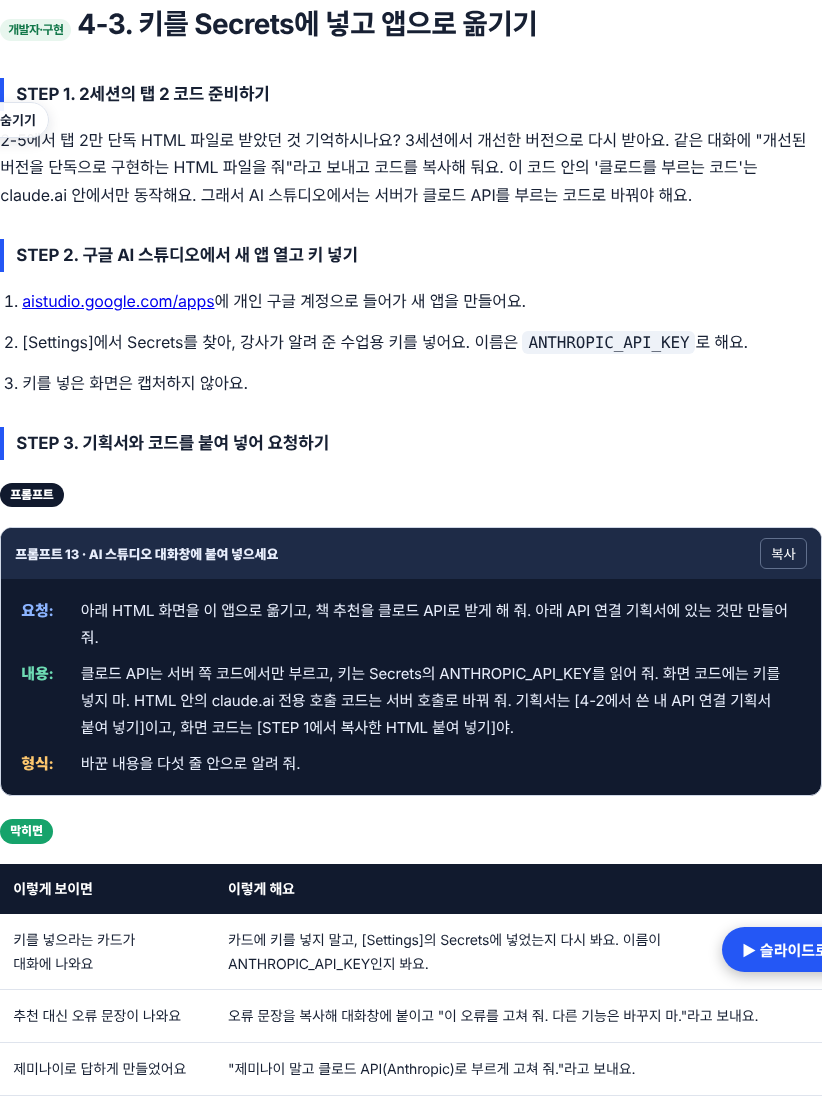
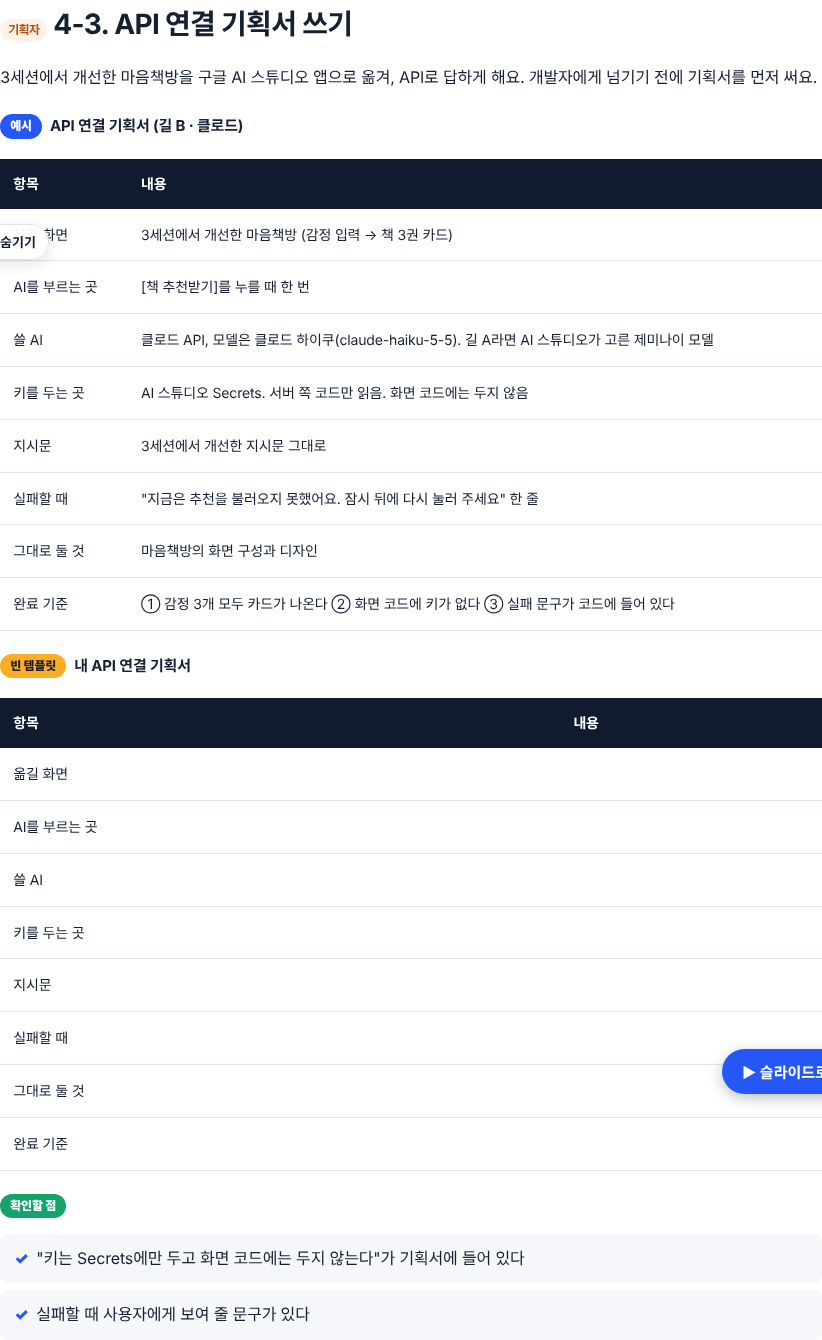
3주차 DAY 3 세션 4: API 키 만들기(길 A 제미나이 자동 연결/길 B 클로드 콘솔)·사용량·지출·한도 메뉴·강사 호출을 먼저 넣음
Claude-Session: https://claude.ai/code/session_01C4uqyEJDMMad4kDgLNX9Dk

diff --git a/261109-ai-pm-week3/d3-ai-studio-books.html b/261109-ai-pm-week3/d3-ai-studio-books.html
@@ -298,7 +298,7 @@ aside nav a.active{border-left-color:var(--blue)}
 <div class="grp"><div class="grp-label">SESSION 1</div><a class="l2" href="#s1">LLM이 무엇이고 어디서 틀리나</a><a class="l3" href="#s1-1">1-1. LLM이란?</a><a class="l3" href="#s1-2">1-2. 책 추천과 링크를 받아 직접 눌러 보기</a><a class="l3" href="#s1-3">1-3. 결과</a></div>
 <div class="grp"><div class="grp-label">SESSION 2</div><a class="l2" href="#s2">클로드 아티팩트로 감정 책 추천 만들기</a><a class="l3" href="#s2-1">2-1. 웹 페이지에 AI를 붙이는 세 가지 길</a><a class="l3" href="#s2-2">2-2. 텍스트 프로토타입과 입력·처리·출력</a><a class="l3" href="#s2-3">2-3. 입력과 출력을 바꿔 다른 화면 만들기</a><a class="l3" href="#s2-4">2-4. 규칙 탭과 AI 탭 견주기</a><a class="l3" href="#s2-5">2-5. 코드에서 AI 탭의 차이 찾기</a><a class="l3" href="#s2-6">2-6. 개발자에게 줄 요구사항 쓰기</a><a class="l3" href="#s2-7">2-7. 결과</a></div>
 <div class="grp"><div class="grp-label">SESSION 3</div><a class="l2" href="#s3">요구사항으로 고치고 테스트하기</a><a class="l3" href="#s3-1">3-1. [기획자] 문제와 해결 방안 표</a><a class="l3" href="#s3-2">3-2. [구현] 개선 요청대로 고치기</a><a class="l3" href="#s3-3">3-3. [구현] AI에게 테스트 시키기</a><a class="l3" href="#s3-4">3-4. [확인] 검증표와 유저플로우</a><a class="l3" href="#s3-5">3-5. [구현] 개선된 버전 만들기</a><a class="l3" href="#s3-6">3-6. [확인] 무엇이 개선됐는지 묻기</a><a class="l3" href="#s3-7">3-7. [기획자] AS-IS·TO-BE 도식</a><a class="l3" href="#s3-8">3-8. 결과</a></div>
-<div class="grp"><div class="grp-label">SESSION 4</div><a class="l2" href="#s4">클로드 API 키로 AI 스튜디오 앱에 붙이기</a><a class="l3" href="#s4-1">4-1. 아티팩트 내장 AI vs 내 API 키</a><a class="l3" href="#s4-2">4-2. [기획자] API 연결 기획서</a><a class="l3" href="#s4-3">4-3. [구현] 키를 Secrets에 넣고 옮기기</a><a class="l3" href="#s4-4">4-4. [확인] 기획서와 결과 견주기</a><a class="l3" href="#s4-5">4-5. 결과</a></div>
+<div class="grp"><div class="grp-label">SESSION 4</div><a class="l2" href="#s4">API 키를 만들어 AI 스튜디오 앱에 붙이기</a><a class="l3" href="#s4-1">4-1. 아티팩트 내장 AI vs API 키</a><a class="l3" href="#s4-2">4-2. API 키 만들기·사용량·한도</a><a class="l3" href="#s4-3">4-3. [기획자] API 연결 기획서</a><a class="l3" href="#s4-4">4-4. [구현] 내 앱에 키 넣고 옮기기</a><a class="l3" href="#s4-5">4-5. [확인] 기획서와 결과 견주기</a><a class="l3" href="#s4-6">4-6. 결과</a></div>
 <div class="grp"><div class="grp-label">SESSION 5</div><a class="l2" href="#s5">추천 프롬프트 설계하기</a><a class="l3" href="#s5-1">5-1. 프롬프트를 잘 쓰는 세 가지 방법</a><a class="l3" href="#s5-2">5-2. [기획자] 추천 프롬프트 기획서</a><a class="l3" href="#s5-3">5-3. [구현] 기획서대로 지시문 바꾸기</a><a class="l3" href="#s5-4">5-4. [확인] 기획서와 결과 견주기</a><a class="l3" href="#s5-5">5-5. 결과</a></div>
 <div class="grp"><div class="grp-label">선택</div><a class="l2" href="#s6">근거를 주고 추천하기 (RAG 맛보기)</a><a class="l3" href="#s6-1">6-1. RAG란?</a><a class="l3" href="#s6-2">6-2. [기획자] 근거 추천 기획서</a><a class="l3" href="#s6-3">6-3. [구현] 기획서대로 목록 붙이기</a><a class="l3" href="#s6-4">6-4. [확인] 기획서와 결과 견주기</a><a class="l3" href="#s6-5">6-5. 결과</a></div>
 <div class="grp"><div class="grp-label">마무리</div><a class="l2" href="#wrap">오늘 정리와 과제</a></div>
@@ -310,11 +310,11 @@ aside nav a.active{border-left-color:var(--blue)}
 <header class="hero">
 <div class="kicker">AI 프로덕트 매니저 · 3주차 DAY 3 · 2026.11.11 (수)</div>
 <h1><em>오늘의 감정</em>을 넣으면 맞는 책 3권을 골라 주는 서비스를 클로드로 만들어요</h1>
-<p>감정 키워드를 넣으면 책 3권을 추천하는 프로토타입을 클로드 아티팩트로 만들어요. 먼저 LLM이 어디서 틀리는지 보고, 규칙으로 고르는 버전과 AI가 고르는 버전을 견줘요. 오후에는 기획자가 요구사항과 기획서를 쓰고, 개발자 입장에서 그대로 구현하고, 다시 기획자가 확인하는 흐름을 되풀이해요. 그 흐름으로 클로드 API 키를 구글 AI 스튜디오 앱에 붙이고, 추천 프롬프트도 설계해요.</p>
+<p>감정 키워드를 넣으면 책 3권을 추천하는 프로토타입을 클로드 아티팩트로 만들어요. 먼저 LLM이 어디서 틀리는지 보고, 규칙으로 고르는 버전과 AI가 고르는 버전을 견줘요. 오후에는 기획자가 요구사항과 기획서를 쓰고, 개발자 입장에서 그대로 구현하고, 다시 기획자가 확인하는 흐름을 되풀이해요. 그 흐름으로 API 키를 직접 만들어 구글 AI 스튜디오 앱에 붙이고, 추천 프롬프트도 설계해요.</p>
 <div class="hero-grid">
 <div><b>일정</b><span>11월 11일(수) 09:00–18:00 · 실시간 비대면</span></div>
 <div><b>준비물</b><span>크롬, 클로드 유료 계정, 개인 구글 계정</span></div>
-<div><b>오늘의 결과물</b><span>감정 책 추천 아티팩트 + 개선 요청 표·검증표·AS-IS/TO-BE 도식 + 클로드 API로 답하는 AI 스튜디오 앱 + 프롬프트 비교표</span></div>
+<div><b>오늘의 결과물</b><span>감정 책 추천 아티팩트 + 개선 요청 표·검증표·AS-IS/TO-BE 도식 + API로 답하는 AI 스튜디오 앱 + 프롬프트 비교표</span></div>
 </div>
 <nav aria-label="3주차 교안" class="day-nav"><a href="./">3주차 홈</a><a href="./d1-sheet-appsscript.html">DAY 1 사용자의 데이터·GA</a><a href="./d2-web-crawling.html">DAY 2 웹 크롤링</a><a aria-current="page" href="./d3-ai-studio-books.html">DAY 3 감정 책 추천</a><a href="./d4-claude-code-chatbot.html">DAY 4 클로드 코드 챗봇 화면</a><a href="./d5-chatbot-api.html">DAY 5 챗봇에 AI API</a></nav>
 </header>
@@ -323,8 +323,8 @@ aside nav a.active{border-left-color:var(--blue)}
 <div class="table-wrap"><table>
 <tr><th>시간</th><td>09:00–18:00 (점심 12:00–13:00, 수업 8시간)</td></tr>
 <tr><th>교과</th><td>[기본] AI 서비스 개발 · 9일차 (총 18일)</td></tr>
-<tr><th>교육 목표</th><td>LLM의 개념과 한계를 알고, 사용자의 입력에 AI가 답하는 서비스를 기획자 → 구현 → 기획자 확인의 흐름으로 만들고, 클로드 API로 내 앱에 붙인다.</td></tr>
-<tr><th>수업이 끝나면</th><td>① LLM이 무엇이고 어떤 답을 지어낼 수 있는지 말하기<br/>② 클로드 아티팩트로 규칙 탭과 AI 탭을 만들고 코드에서 지시문 찾기<br/>③ 요구사항을 입력·처리·출력으로 써서 고치고, 테스트하고, AS-IS·TO-BE로 정리하기<br/>④ 클로드 API 키를 구글 AI 스튜디오 앱의 서버에 붙이기<br/>⑤ 추천 프롬프트 기획서를 쓰고 지시문 세 버전을 견주기</td></tr>
+<tr><th>교육 목표</th><td>LLM의 개념과 한계를 알고, 사용자의 입력에 AI가 답하는 서비스를 기획자 → 구현 → 기획자 확인의 흐름으로 만들고, API 키로 내 앱에 붙인다.</td></tr>
+<tr><th>수업이 끝나면</th><td>① LLM이 무엇이고 어떤 답을 지어낼 수 있는지 말하기<br/>② 클로드 아티팩트로 규칙 탭과 AI 탭을 만들고 코드에서 지시문 찾기<br/>③ 요구사항을 입력·처리·출력으로 써서 고치고, 테스트하고, AS-IS·TO-BE로 정리하기<br/>④ API 키를 만들고 사용량·지출·한도를 확인한 뒤, 구글 AI 스튜디오 앱의 서버에 붙이기<br/>⑤ 추천 프롬프트 기획서를 쓰고 지시문 세 버전을 견주기</td></tr>
 </table></div>
 </section>
 
@@ -345,7 +345,7 @@ aside nav a.active{border-left-color:var(--blue)}
 <tr><td>10:30–12:00</td><td>SESSION 2</td><td><a href="#s2">클로드 아티팩트로 감정 책 추천 만들기</a></td></tr>
 <tr><td>12:00–13:00</td><td>점심</td><td></td></tr>
 <tr><td>13:00–15:20</td><td>SESSION 3</td><td><a href="#s3">요구사항으로 고치고 테스트하기</a></td></tr>
-<tr><td>15:30–16:30</td><td>SESSION 4</td><td><a href="#s4">클로드 API 키로 AI 스튜디오 앱에 붙이기</a></td></tr>
+<tr><td>15:30–16:30</td><td>SESSION 4</td><td><a href="#s4">API 키를 만들어 AI 스튜디오 앱에 붙이기</a></td></tr>
 <tr><td>16:30–17:30</td><td>SESSION 5</td><td><a href="#s5">추천 프롬프트 설계하기</a></td></tr>
 <tr><td>시간이 남으면</td><td>선택</td><td><a href="#s6">근거를 주고 추천하기 (RAG 맛보기)</a></td></tr>
 <tr><td>17:30–18:00</td><td>정리·회고</td><td><a href="#wrap">오늘 정리와 과제</a></td></tr>
@@ -363,7 +363,7 @@ aside nav a.active{border-left-color:var(--blue)}
 <tr><td><b>입력 · 처리 · 출력</b></td><td>사용자가 넣는 것, 화면 안에서 일어나는 일, 사용자가 받는 것. 요구사항을 줄 때의 기준이에요.</td></tr>
 <tr><td><b>지시문(프롬프트)</b></td><td>AI에게 역할과 답의 모양을 알려 주는 문장. AI 탭의 코드 안에 들어 있어요.</td></tr>
 <tr><td><b>JSON</b></td><td>정보를 {"이름": "값"} 모양으로 적는 약속. 코드가 칸을 나눠 읽기 좋아요.</td></tr>
-<tr><td><b>API 키</b></td><td>내 계정으로 AI를 부를 때 쓰는 비밀 열쇠. 사용량이 이 키를 만든 조직의 크레딧에서 빠져요.</td></tr>
+<tr><td><b>API 키</b></td><td>내 계정으로 AI를 부를 때 쓰는 비밀 열쇠. 사용량이 이 키를 만든 계정의 한도나 크레딧에서 빠져요.</td></tr>
 <tr><td><b>Secrets</b></td><td>구글 AI 스튜디오에서 API 키 같은 비밀값을 넣어 두는 곳. 서버 쪽 코드만 읽어요.</td></tr>
 <tr><td><b>AS-IS · TO-BE</b></td><td>지금의 모습(AS-IS)과 바꾼 뒤의 모습(TO-BE)</td></tr>
 <tr><td><b>Few-shot</b></td><td>원하는 답의 예시를 몇 개 먼저 보여 주는 프롬프트 방법</td></tr>
@@ -631,36 +631,78 @@ aside nav a.active{border-left-color:var(--blue)}
 </section>
 
 <section class="section session" id="s4">
-<div class="session-head"><div class="eyebrow">SESSION 4 · 15:30–16:30</div><h2>클로드 API 키로 구글 AI 스튜디오 앱에 붙이기</h2><p>지금까지는 클로드 아티팩트 안에서 클로드를 불렀어요. 이번에는 구글 AI 스튜디오로 만든 앱이 클로드 API를 부르게 해요. 강사가 만든 수업용 API 키를 1시간 동안 함께 써요.</p>
+<div class="session-head"><div class="eyebrow">SESSION 4 · 15:30–16:30</div><h2>API 키를 만들어 구글 AI 스튜디오 앱에 붙이기</h2><p>지금까지는 클로드 아티팩트 안에서 클로드를 불렀어요. 이번에는 API 키를 직접 만들고, 구글 AI 스튜디오로 만든 내 앱에 그 키를 넣어요. 키를 만드는 길은 두 가지예요. 사용량과 지출을 어디서 보는지, 한도는 어떻게 거는지도 함께 익혀요.</p>
 <div class="why-box"><b>왜 하나?</b>실제 서비스는 아티팩트가 아니라 내 서버에서 AI를 불러요. 그때 API 키를 어디에 두고, 요금과 실패를 어떻게 다룰지는 기획자가 정해야 해요.</div></div>
 
-<div class="topic" id="s4-1"><h3><span class="stage">개념</span>4-1. 아티팩트 내장 AI와 내 API 키는 무엇이 다른가요?</h3>
-<div class="table-wrap"><table><tr><th></th><th>아티팩트 내장 AI (2·3세션)</th><th>내 API 키 (4세션)</th></tr>
+<div class="topic" id="s4-1"><h3><span class="stage">개념</span>4-1. 아티팩트 내장 AI와 API 키는 무엇이 다른가요?</h3>
+<div class="table-wrap"><table><tr><th></th><th>아티팩트 내장 AI (2·3세션)</th><th>API 키 (4세션)</th></tr>
 <tr><td><b>어디서 부르나</b></td><td>claude.ai 안의 아티팩트</td><td>내가 만든 앱의 서버</td></tr>
-<tr><td><b>누구 사용량인가</b></td><td>쓰는 사람의 클로드 요금제 한도</td><td>API 키를 만든 콘솔 조직의 선불 크레딧</td></tr>
+<tr><td><b>누구 사용량인가</b></td><td>쓰는 사람의 클로드 요금제 한도</td><td>API 키를 만든 계정(프로젝트·조직)의 한도나 크레딧</td></tr>
 <tr><td><b>키가 필요한가</b></td><td>필요 없음</td><td>필요함. 서버에만 두고 화면 코드에는 두지 않아요</td></tr>
-<tr><td><b>Pro 요금제로 되나</b></td><td>됨</td><td>Pro 요금제에는 API 크레딧이 없어서, 콘솔에 따로 충전해야 해요</td></tr>
 </table></div>
 <h4>API 키는 왜 서버에 두나요?</h4><p>API 키는 내 계정으로 AI를 부르는 비밀 열쇠예요. 화면 코드에 넣으면 앱을 연 사람 누구나 키를 볼 수 있어요. 구글 AI 스튜디오는 키를 [Settings]의 Secrets에 넣고, 서버 쪽 코드가 그 키를 읽게 해요. 그래서 키가 브라우저에 드러나지 않아요.</p>
+<p class="source-note">출처: Google AI for Developers <a href="https://ai.google.dev/gemini-api/docs/aistudio-build-mode" target="_blank" rel="noopener">Build apps in Google AI Studio</a>(2026-10-26 갱신) · <a href="https://ai.google.dev/gemini-api/docs/aistudio-fullstack" target="_blank" rel="noopener">Develop full-stack apps in Google AI Studio</a>(2026-10-20 갱신) (2026.11.11 확인)</p>
+</div>
+
+<div class="topic" id="s4-2"><h3><span class="stage">준비</span>4-2. API 키 만들기</h3>
+<p>두 길 중 하나를 골라요. 어느 길이든 키를 만든 뒤 사용량·지출 화면을 열어 보고, 한도를 거는 곳까지 확인해요.</p>
+<div class="table-wrap"><table><tr><th></th><th>길 A · 구글 AI 스튜디오가 제미나이 키를 만들어 연결</th><th>길 B · 클로드 콘솔에서 내가 직접 키 만들기</th></tr>
+<tr><td><b>쓰는 AI</b></td><td>제미나이</td><td>클로드</td></tr>
+<tr><td><b>키를 만드는 사람</b></td><td>AI 스튜디오가 알아서 만들어 Secrets에 넣어요</td><td>내가 콘솔에서 만들고, 내 앱의 Secrets에 직접 넣어요</td></tr>
+<tr><td><b>요금</b></td><td>새 계정은 무료 등급으로 시작해요. 결제를 연결하지 않아요</td><td>선불 크레딧으로 결제해요. Pro 요금제에는 API 크레딧이 없어요</td></tr>
+</table></div>
+
+<p><b>길 A. 구글 AI 스튜디오에서 제미나이 키 연결하기</b></p>
+<ol class="do-steps">
+<li><p><a href="https://aistudio.google.com/apps" target="_blank" rel="noopener">aistudio.google.com/apps</a>에 개인 구글 계정으로 들어가 새 앱을 만들어요.</p></li>
+<li><p>대화창에 "제미나이 API 키를 연결해서 동작하게 해 줘."라고 보내요. AI 스튜디오는 제미나이를 쓰는 새 웹 앱에 제미나이 API 키를 서버 쪽 Secrets로 알아서 넣어 줘요.</p></li>
+<li><p>[Settings]의 Secrets에 키가 들어갔는지 이름만 봐요. 키 값은 복사하거나 화면 공유로 보여 주지 않아요.</p></li>
+</ol>
+<p class="blk k-chk"><span>조심할 점</span></p>
+<ul>
+<li>내 앱을 다른 사람과 공유하면, 그 사람이 누른 호출도 내 사용량에 쌓여요.</li>
+<li>오늘은 결제를 연결하지 않아요. 유료 등급은 결제 계정을 연결하고 최소 5달러를 미리 충전해야 해요.</li>
+</ul>
+
+<p><b>길 B. 클로드 콘솔에서 API 키 직접 만들기</b></p>
+<ol class="do-steps">
+<li><p><a href="https://platform.claude.com" target="_blank" rel="noopener">platform.claude.com</a>(클로드 콘솔)에 로그인해요. 계정이 없으면 새로 만들어요.</p></li>
+<li><p>API 키 화면(<a href="https://platform.claude.com/settings/keys" target="_blank" rel="noopener">platform.claude.com/settings/keys</a>)에서 [Create key]를 눌러요.</p></li>
+<li><p>키 이름(예: <code class="inline">aipm-day3</code>)을 넣고, 만료 기간을 골라요.</p></li>
+<li><p>만든 키(<code class="inline">sk-ant-</code>로 시작)는 <b>만들 때 한 번만</b> 보여요. 바로 복사해 4-4에서 내 앱에 넣어요. 잃어버리면 다시 볼 수 없어서 새로 만들어야 해요.</p></li>
+</ol>
+<div class="notice"><b>크레딧이 없으면 키를 만들어도 답이 오지 않아요</b><br/>클로드 API는 선불 크레딧으로 써요. Pro 요금제에는 API 크레딧이 들어 있지 않아요. 내 콘솔에 크레딧이 없으면, 강사가 알려 주는 수업용 키를 내 앱에 넣어요.</div>
+
 <div class="ref-box"><b>참고 · 수업용 키는 이렇게 운영해요 (강사)</b>
 <ul>
 <li>Anthropic은 API 키를 다른 사람과 나누지 말고, 각자 키를 받으라고 안내해요. 오늘은 수업을 위해 강사가 만든 키 하나를 1시간 동안만 함께 쓰고, 수업이 끝나면 강사가 키를 지워요.</li>
 <li>강사는 수업용 워크스페이스를 따로 만들고, 그 워크스페이스에 월 지출 한도를 걸어요. 키는 그 워크스페이스 안에서 만들어요.</li>
-<li>키를 지우면 그 키로는 더 이상 클로드를 부를 수 없어요. 그래서 수업이 끝나면 오늘 만든 앱의 AI 기능은 멈춰요.</li>
+<li>키를 지우면 그 키로는 더 이상 클로드를 부를 수 없어요. 그래서 수업이 끝나면 수업용 키를 넣은 앱의 AI 기능은 멈춰요.</li>
 </ul>
-<p><b>학생이 지킬 것:</b> 키를 캡처하거나, 슬랙 공개 채널·깃헙·노션에 올리지 않아요. 키는 AI 스튜디오의 Secrets에만 넣어요.</p>
-<p class="source-note">출처: Claude 고객센터 <a href="https://support.claude.com/en/articles/9767949-api-key-best-practices-keep-your-keys-safe-and-secure" target="_blank" rel="noopener">API key best practices</a> · <a href="https://support.claude.com/en/articles/9796807-create-and-manage-workspaces-in-the-claude-console" target="_blank" rel="noopener">Create and manage Workspaces in the Claude Console</a> · <a href="https://support.claude.com/en/articles/17154008-monthly-api-credits-for-max-ultra-and-team-plans" target="_blank" rel="noopener">Monthly API credits for Max, Ultra, and Team plans</a> · Google AI for Developers <a href="https://ai.google.dev/gemini-api/docs/aistudio-fullstack" target="_blank" rel="noopener">Develop full-stack apps in Google AI Studio</a>(2026-10-20 갱신) (2026.11.11 확인)</p>
-</div>
+<p><b>학생이 지킬 것:</b> 키를 캡처하거나, 슬랙 공개 채널·깃헙·노션에 올리지 않아요. 키는 내 앱의 Secrets에만 넣어요.</p>
 </div>
 
-<div class="topic" id="s4-2"><h3><span class="stage plan">기획자</span>4-2. API 연결 기획서 쓰기</h3>
-<p>3세션에서 개선한 마음책방을 구글 AI 스튜디오 앱으로 옮겨, 클로드 API로 답하게 해요. 개발자에게 넘기기 전에 기획서를 먼저 써요.</p>
-<p class="blk k-ex"><span>예시</span>API 연결 기획서</p>
+<p><b>사용량·지출을 보고, 한도를 거는 곳</b></p>
+<p>키를 만들었으면 아래 화면을 직접 열어 봐요. 기획자는 "얼마나 쓰고 있는지"와 "어디서 멈추게 할지"를 알아야 해요.</p>
+<div class="table-wrap"><table><tr><th>보는 것</th><th>클로드 콘솔 (길 B)</th><th>구글 AI 스튜디오 (길 A)</th></tr>
+<tr><td><b>사용량</b></td><td>[Usage] 화면 (<a href="https://platform.claude.com/usage" target="_blank" rel="noopener">platform.claude.com/usage</a>). 워크스페이스·모델·날짜·API 키별로 걸러 볼 수 있어요</td><td>[Dashboard] → [Usage]. 사용 한도는 <a href="https://aistudio.google.com/rate-limit" target="_blank" rel="noopener">aistudio.google.com/rate-limit</a></td></tr>
+<tr><td><b>지출</b></td><td>[Cost] 화면 (<a href="https://platform.claude.com/cost" target="_blank" rel="noopener">platform.claude.com/cost</a>). 워크스페이스·모델·달별로 볼 수 있어요</td><td>[Billing] 화면에서 잔액과 결제를 봐요 (무료 등급은 결제 없음)</td></tr>
+<tr><td><b>한도 걸기</b></td><td>[Workspaces]에서 워크스페이스를 고르고 [Spend limits] → [Change limit]로 월 지출 한도를 걸어요. 기본 워크스페이스에는 걸 수 없어요</td><td>[Spend] 화면의 [Monthly spend cap] → [Edit spend cap] (결제를 연결한 프로젝트)</td></tr>
+</table></div>
+<p class="blk k-chk"><span>확인할 점</span></p>
+<ul class="checklist"><li>길 A 또는 길 B로 키를 하나 준비했다</li><li>사용량 화면과 지출 화면을 열어 봤다</li><li>한도를 거는 메뉴가 어디 있는지 찾았다</li></ul>
+<div class="notice"><b>안 되면 강사를 불러요</b><br/>키 만들기 버튼이 눌리지 않거나, 화면이 교안과 다르거나, 키를 잃어버렸으면 혼자 오래 붙잡지 말고 슬랙 쓰레드나 손들기로 강사를 불러요.</div>
+<p class="source-note">출처: Claude 공식 문서 <a href="https://platform.claude.com/docs/en/get-api-key" target="_blank" rel="noopener">Get your Claude API key</a> · Claude 고객센터 <a href="https://support.claude.com/en/articles/9534590-cost-and-usage-reporting-in-the-claude-console" target="_blank" rel="noopener">Cost and usage reporting in the Claude Console</a> · <a href="https://support.claude.com/en/articles/9796807-create-and-manage-workspaces-in-the-claude-console" target="_blank" rel="noopener">Create and manage Workspaces</a> · <a href="https://support.claude.com/en/articles/8977456-how-do-i-pay-for-my-claude-api-usage" target="_blank" rel="noopener">How do I pay for my Claude API usage?</a> · <a href="https://support.claude.com/en/articles/17154008-monthly-api-credits-for-max-ultra-and-team-plans" target="_blank" rel="noopener">Monthly API credits for Max, Ultra, and Team plans</a> · <a href="https://support.claude.com/en/articles/9767949-api-key-best-practices-keep-your-keys-safe-and-secure" target="_blank" rel="noopener">API key best practices</a> · Google AI for Developers <a href="https://ai.google.dev/gemini-api/docs/billing" target="_blank" rel="noopener">Billing</a>(2026-09-28 갱신) · <a href="https://ai.google.dev/gemini-api/docs/rate-limits" target="_blank" rel="noopener">Rate limits</a>(2026-10-28 갱신) (2026.11.11 확인)</p>
+</div>
+
+<div class="topic" id="s4-3"><h3><span class="stage plan">기획자</span>4-3. API 연결 기획서 쓰기</h3>
+<p>3세션에서 개선한 마음책방을 구글 AI 스튜디오 앱으로 옮겨, API로 답하게 해요. 개발자에게 넘기기 전에 기획서를 먼저 써요.</p>
+<p class="blk k-ex"><span>예시</span>API 연결 기획서 (길 B · 클로드)</p>
 <div class="table-wrap"><table>
 <tr><th>항목</th><th>내용</th></tr>
 <tr><td>옮길 화면</td><td>3세션에서 개선한 마음책방 (감정 입력 → 책 3권 카드)</td></tr>
 <tr><td>AI를 부르는 곳</td><td>[책 추천받기]를 누를 때 한 번</td></tr>
-<tr><td>쓸 AI</td><td>클로드 API, 모델은 클로드 하이쿠(claude-haiku-5-5)</td></tr>
+<tr><td>쓸 AI</td><td>클로드 API, 모델은 클로드 하이쿠(claude-haiku-5-5). 길 A라면 AI 스튜디오가 고른 제미나이 모델</td></tr>
 <tr><td>키를 두는 곳</td><td>AI 스튜디오 Secrets. 서버 쪽 코드만 읽음. 화면 코드에는 두지 않음</td></tr>
 <tr><td>지시문</td><td>3세션에서 개선한 지시문 그대로</td></tr>
 <tr><td>실패할 때</td><td>"지금은 추천을 불러오지 못했어요. 잠시 뒤에 다시 눌러 주세요" 한 줄</td></tr>
@@ -683,32 +725,36 @@ aside nav a.active{border-left-color:var(--blue)}
 <ul class="checklist"><li>"키는 Secrets에만 두고 화면 코드에는 두지 않는다"가 기획서에 들어 있다</li><li>실패할 때 사용자에게 보여 줄 문구가 있다</li></ul>
 </div>
 
-<div class="topic" id="s4-3"><h3><span class="stage dev">개발자·구현</span>4-3. 키를 Secrets에 넣고 앱으로 옮기기</h3>
-<p><b>STEP 1. 2세션의 탭 2 코드 준비하기</b></p>
-<p>2-5에서 탭 2만 단독 HTML 파일로 받았던 것 기억하시나요? 3세션에서 개선한 버전으로 다시 받아요. 같은 대화에 "개선된 버전을 단독으로 구현하는 HTML 파일을 줘"라고 보내고 코드를 복사해 둬요. 이 코드 안의 '클로드를 부르는 코드'는 claude.ai 안에서만 동작해요. 그래서 AI 스튜디오에서는 서버가 클로드 API를 부르는 코드로 바꿔야 해요.</p>
-<p><b>STEP 2. 구글 AI 스튜디오에서 새 앱 열고 키 넣기</b></p>
-<ol class="do-steps">
-<li><p><a href="https://aistudio.google.com/apps" target="_blank" rel="noopener">aistudio.google.com/apps</a>에 개인 구글 계정으로 들어가 새 앱을 만들어요.</p></li>
-<li><p>[Settings]에서 Secrets를 찾아, 강사가 알려 준 수업용 키를 넣어요. 이름은 <code class="inline">ANTHROPIC_API_KEY</code>로 해요.</p></li>
-<li><p>키를 넣은 화면은 캡처하지 않아요.</p></li>
-</ol>
+<div class="topic" id="s4-4"><h3><span class="stage dev">개발자·구현</span>4-4. 내 앱에 키를 넣고 화면 옮기기</h3>
+<p><b>STEP 1. 3세션의 개선된 화면 코드 준비하기</b></p>
+<p>2-5에서 탭 2만 단독 HTML 파일로 받았던 것 기억하시나요? 3세션에서 개선한 버전으로 다시 받아요. 같은 클로드 대화에 "개선된 버전을 단독으로 구현하는 HTML 파일을 줘"라고 보내고 코드를 복사해 둬요. 이 코드 안의 '클로드를 부르는 코드'는 claude.ai 안에서만 동작해요. 그래서 AI 스튜디오에서는 서버가 API를 부르는 코드로 바꿔야 해요.</p>
+<p><b>STEP 2. 내 앱의 Secrets에 키 넣기</b></p>
+<ul>
+<li><b>길 A:</b> 4-2에서 AI 스튜디오가 넣어 준 제미나이 키를 그대로 써요. 따로 넣을 것은 없어요.</li>
+<li><b>길 B:</b> 내 AI 스튜디오 앱의 [Settings] → Secrets에 4-2에서 복사한 클로드 키(또는 수업용 키)를 넣어요. 이름은 <code class="inline">ANTHROPIC_API_KEY</code>로 해요. 키를 넣은 화면은 캡처하지 않아요.</li>
+</ul>
 <p><b>STEP 3. 기획서와 코드를 붙여 넣어 요청하기</b></p>
+<p>내가 고른 길의 프롬프트를 AI 스튜디오 대화창에 보내요.</p>
 <p class="blk k-pr"><span>프롬프트</span></p>
-<div class="copybox"><div class="copyhead"><span>프롬프트 13 · AI 스튜디오 대화창에 붙여 넣으세요</span><button type="button">복사</button></div><pre>요청: 아래 HTML 화면을 이 앱으로 옮기고, 책 추천을 클로드 API로 받게 해 줘. 아래 API 연결 기획서에 있는 것만 만들어 줘.
-내용: 클로드 API는 서버 쪽 코드에서만 부르고, 키는 Secrets의 ANTHROPIC_API_KEY를 읽어 줘. 화면 코드에는 키를 넣지 마. HTML 안의 claude.ai 전용 호출 코드는 서버 호출로 바꿔 줘. 기획서는 [4-2에서 쓴 내 API 연결 기획서 붙여 넣기]이고, 화면 코드는 [STEP 1에서 복사한 HTML 붙여 넣기]야.
+<div class="copybox"><div class="copyhead"><span>프롬프트 13 · 길 A · AI 스튜디오 대화창에 붙여 넣으세요</span><button type="button">복사</button></div><pre>요청: 아래 HTML 화면을 이 앱으로 옮기고, 책 추천을 제미나이 API로 받게 해 줘. 아래 API 연결 기획서에 있는 것만 만들어 줘.
+내용: 제미나이 API는 서버 쪽 코드에서만 부르고, 연결된 키를 써 줘. 화면 코드에는 키를 넣지 마. HTML 안의 claude.ai 전용 호출 코드는 서버 호출로 바꿔 줘. 기획서는 [4-3에서 쓴 내 API 연결 기획서 붙여 넣기]이고, 화면 코드는 [STEP 1에서 복사한 HTML 붙여 넣기]야.
+형식: 바꾼 내용을 다섯 줄 안으로 알려 줘.</pre></div>
+<div class="copybox"><div class="copyhead"><span>프롬프트 14 · 길 B · AI 스튜디오 대화창에 붙여 넣으세요</span><button type="button">복사</button></div><pre>요청: 아래 HTML 화면을 이 앱으로 옮기고, 책 추천을 클로드 API로 받게 해 줘. 아래 API 연결 기획서에 있는 것만 만들어 줘.
+내용: 클로드 API는 서버 쪽 코드에서만 부르고, 키는 Secrets의 ANTHROPIC_API_KEY를 읽어 줘. 화면 코드에는 키를 넣지 마. HTML 안의 claude.ai 전용 호출 코드는 서버 호출로 바꿔 줘. 기획서는 [4-3에서 쓴 내 API 연결 기획서 붙여 넣기]이고, 화면 코드는 [STEP 1에서 복사한 HTML 붙여 넣기]야.
 형식: 바꾼 내용을 다섯 줄 안으로 알려 줘.</pre></div>
 <p class="blk k-chk"><span>막히면</span></p>
 <div class="table-wrap"><table><tr><th>이렇게 보이면</th><th>이렇게 해요</th></tr>
-<tr><td>키를 넣으라는 카드가 대화에 나와요</td><td>카드에 키를 넣지 말고, [Settings]의 Secrets에 넣었는지 다시 봐요. 이름이 ANTHROPIC_API_KEY인지 봐요.</td></tr>
+<tr><td>키를 넣으라는 카드가 대화에 나와요</td><td>길 B라면 카드에 키를 넣지 말고, [Settings]의 Secrets에 넣었는지 다시 봐요. 이름이 ANTHROPIC_API_KEY인지 봐요.</td></tr>
 <tr><td>추천 대신 오류 문장이 나와요</td><td>오류 문장을 복사해 대화창에 붙이고 "이 오류를 고쳐 줘. 다른 기능은 바꾸지 마."라고 보내요.</td></tr>
-<tr><td>제미나이로 답하게 만들었어요</td><td>"제미나이 말고 클로드 API(Anthropic)로 부르게 고쳐 줘."라고 보내요.</td></tr>
+<tr><td>길 B인데 제미나이로 답하게 만들었어요</td><td>"제미나이 말고 클로드 API(Anthropic)로 부르게 고쳐 줘."라고 보내요.</td></tr>
+<tr><td>크레딧이 부족하다는 오류가 나와요</td><td>내 콘솔에 크레딧이 없어서예요. 강사를 불러 수업용 키로 바꿔 넣어요.</td></tr>
 </table></div>
 </div>
 
-<div class="topic" id="s4-4"><h3><span class="stage check">기획자·확인</span>4-4. 기획서와 결과 견주기</h3>
-<p>기획자로 돌아와요. 4-2 기획서의 완료 기준으로 판단해요.</p>
+<div class="topic" id="s4-5"><h3><span class="stage check">기획자·확인</span>4-5. 기획서와 결과 견주기</h3>
+<p>기획자로 돌아와요. 4-3 기획서의 완료 기준으로 판단하고, 4-2에서 열어 본 사용량 화면에 오늘 부른 호출이 쌓였는지도 봐요.</p>
 <p class="blk k-pr"><span>프롬프트</span></p>
-<div class="copybox"><div class="copyhead"><span>프롬프트 14 · AI 스튜디오 대화창에 붙여 넣으세요</span><button type="button">복사</button></div><pre>요청: 이 앱에서 클로드 API 키가 어디에서 쓰이는지 알려 줘. 코드는 바꾸지 마.
+<div class="copybox"><div class="copyhead"><span>프롬프트 15 · AI 스튜디오 대화창에 붙여 넣으세요</span><button type="button">복사</button></div><pre>요청: 이 앱에서 API 키가 어디에서 쓰이는지 알려 줘. 코드는 바꾸지 마.
 내용: 사용자의 브라우저로 내려가는 화면 코드에 키 값이나 키를 읽는 코드가 있는지, 서버 쪽 코드에서만 쓰는지 나눠서 봐 줘. 실패할 때 보여 주는 문구가 코드 어디에 있는지도 알려 줘.
 형식: '화면 코드: 있음/없음', '서버 코드: 파일 이름', '실패 문구: 파일 이름' 세 줄.</pre></div>
 <p class="blk k-tpl"><span>빈 템플릿</span>API 연결 확인표</p>
@@ -717,15 +763,16 @@ aside nav a.active{border-left-color:var(--blue)}
 <tr><td>감정 3개 모두 카드가 나온다</td><td></td><td></td></tr>
 <tr><td>화면 코드에 키가 없다</td><td></td><td></td></tr>
 <tr><td>실패 문구가 코드에 들어 있다</td><td></td><td></td></tr>
+<tr><td>사용량 화면에 오늘 호출이 쌓였다</td><td></td><td></td></tr>
 <tr><td>[내 기획서의 완료 기준]</td><td></td><td></td></tr>
 </table></div>
 <p class="blk k-chk"><span>확인할 점</span></p>
-<ul class="checklist"><li>[책 추천받기]를 누를 때마다 수업용 크레딧을 써요. 감정마다 한 번씩만 눌렀다</li><li>2·3세션 아티팩트와 같은 감정으로 눌러, 답이 비슷한지 견줘 봤다</li></ul>
+<ul class="checklist"><li>[책 추천받기]를 누를 때마다 사용량을 써요. 감정마다 한 번씩만 눌렀다</li><li>2·3세션 아티팩트와 같은 감정으로 눌러, 답이 비슷한지 견줘 봤다</li></ul>
 </div>
 
-<div class="topic" id="s4-5"><h3><span class="stage">결과</span>4-5. 결과</h3>
-<div class="result-box"><b>결과물</b> API 연결 기획서 + 클로드 API로 답하는 AI 스튜디오 앱 + API 연결 확인표</div>
-<p class="ok-line"><b>이렇게 보이면 성공</b>"키는 Secrets에, 호출은 서버에서"를 내 앱의 확인표로 설명할 수 있다</p>
+<div class="topic" id="s4-6"><h3><span class="stage">결과</span>4-6. 결과</h3>
+<div class="result-box"><b>결과물</b> API 키(길 A 또는 B) + API 연결 기획서 + API로 답하는 AI 스튜디오 앱 + API 연결 확인표</div>
+<p class="ok-line"><b>이렇게 보이면 성공</b>"키는 Secrets에, 호출은 서버에서"를 내 앱으로 설명하고, 사용량·지출·한도 메뉴를 찾아 보여 줄 수 있다</p>
 </div>
 </section>
 
@@ -817,7 +864,7 @@ aside nav a.active{border-left-color:var(--blue)}
 <tr><td><b>C</b></td><td>B + 기획서의 좋은 답 예시 2개</td></tr>
 </table></div>
 <p class="blk k-pr"><span>프롬프트</span></p>
-<div class="copybox"><div class="copyhead"><span>프롬프트 15 · 2세션 대화에 붙여 넣으세요</span><button type="button">복사</button></div><pre>요청: 아래 추천 프롬프트 기획서대로 탭 2의 지시문을 세 가지 버전으로 만들어 탭 A·B·C로 나눠 줘. 다른 화면과 기능은 바꾸지 마.
+<div class="copybox"><div class="copyhead"><span>프롬프트 16 · 2세션 대화에 붙여 넣으세요</span><button type="button">복사</button></div><pre>요청: 아래 추천 프롬프트 기획서대로 탭 2의 지시문을 세 가지 버전으로 만들어 탭 A·B·C로 나눠 줘. 다른 화면과 기능은 바꾸지 마.
 내용: A는 지금 지시문 그대로, B는 A에 기획서의 역할과 받을 답의 모양을 더한 지시문, C는 B에 기획서의 좋은 답 예시를 더한 지시문이야. 기획서의 '받을 답의 모양' 표는 JSON으로 바꿔 코드에 넣어 줘. 기획서에 없는 기능은 넣지 마. 기획서는 [5-2에서 쓴 내 추천 프롬프트 기획서 붙여 넣기]야.
 형식: 탭마다 바꾼 지시문 전문을 대화에 보여 줘.</pre></div>
 <p class="blk k-chk"><span>확인할 점</span></p>
@@ -905,7 +952,7 @@ aside nav a.active{border-left-color:var(--blue)}
 <div class="topic" id="s6-3"><h3><span class="stage dev">개발자·구현</span>6-3. 기획서대로 목록을 붙이기</h3>
 <p>개발자 입장이 돼요. 5세션 대화에 books_clean.csv 파일을 올리고, 6-2 기획서를 그대로 붙여 넣어요. 5세션에서 만든 탭 C는 그대로 두고, 탭 D를 새로 만들어 견줄 수 있게 해요.</p>
 <p class="blk k-pr"><span>프롬프트</span></p>
-<div class="copybox"><div class="copyhead"><span>프롬프트 16 · books_clean.csv를 올린 뒤 5세션 대화에 붙여 넣으세요</span><button type="button">복사</button></div><pre>요청: 첨부한 books_clean.csv와 아래 근거 추천 기획서로 탭 D를 새로 만들어 줘. 탭 A·B·C와 다른 기능은 바꾸지 마.
+<div class="copybox"><div class="copyhead"><span>프롬프트 17 · books_clean.csv를 올린 뒤 5세션 대화에 붙여 넣으세요</span><button type="button">복사</button></div><pre>요청: 첨부한 books_clean.csv와 아래 근거 추천 기획서로 탭 D를 새로 만들어 줘. 탭 A·B·C와 다른 기능은 바꾸지 마.
 내용: 탭 D의 지시문은 탭 C의 지시문에 기획서의 규칙을 더해 만들어 줘. 기획서의 '받을 답의 모양' 표는 JSON으로 바꿔 코드에 넣어 줘. 기획서에 없는 기능은 넣지 마. 기획서는 [6-2에서 쓴 내 근거 추천 기획서 붙여 넣기]야.
 형식: 바꾼 내용을 다섯 줄 안으로 알려 주고, 탭 D의 지시문 전문을 대화에 보여 줘.</pre></div>
 <p class="blk k-chk"><span>확인할 점</span></p>
@@ -945,7 +992,7 @@ aside nav a.active{border-left-color:var(--blue)}
 <li>프롬프트는 답의 모양을 좋게 하고, 근거 목록(RAG)은 지어낸 답을 막는다</li>
 <li>개수를 채우는 것보다 진짜인 것이 중요하면, "확실한 만큼만 답해도 돼"라고 허락한다</li>
 </ul>
-<div class="notice"><b>오늘의 결과물</b><br/>감정 책 추천 아티팩트(탭 1·2, A·B·C) + 개선 요청 표·검증표·AS-IS/TO-BE 도식 + 클로드 API로 답하는 AI 스튜디오 앱 + 프롬프트 비교표</div>
+<div class="notice"><b>오늘의 결과물</b><br/>감정 책 추천 아티팩트(탭 1·2, A·B·C) + 개선 요청 표·검증표·AS-IS/TO-BE 도식 + API로 답하는 AI 스튜디오 앱 + 프롬프트 비교표</div>
 <div class="notice"><b>과제</b><br/>내가 기획하는 서비스에서 AI가 기억으로 답하면 안 되는 일을 하나 찾아요. 그 일에 줄 근거 자료가 무엇인지 한 문장으로 적어 와요.</div>
 <p>목요일에는 클로드 코드로 셀렉트마켓 연말 이벤트 문의 챗봇 화면을 만들어요. 오늘처럼 기획서를 먼저 쓰고, 그 기획서로 화면을 만들어요.</p>
 </section>

diff --git a/_pr-notes/d3_클로드아티팩트_세션2-5교체_261111/README.md b/_pr-notes/d3_클로드아티팩트_세션2-5교체_261111/README.md
@@ -1,5 +1,9 @@
 # DAY 3 세션 2~6 교체 (구글 AI 스튜디오·제미나이 → 클로드 아티팩트 + 클로드 API) · 2026-11-11
 
+## 3차 수정 (로린 님 요청: API 키 만들기를 먼저)
+- 세션 4를 "API 키를 만들어 구글 AI 스튜디오 앱에 붙이기"로 다시 씀: 4-1 개념 → **4-2 API 키 만들기** (길 A: AI 스튜디오가 제미나이 키를 알아서 연결 / 길 B: 클로드 콘솔에서 직접 키 만들기, 크레딧 없으면 수업용 키) + **사용량·지출·한도 메뉴 표**(클로드 Usage·Cost·Workspaces Spend limits / AI 스튜디오 Dashboard>Usage·rate-limit·Spend) + **안 되면 강사 호출** → 4-3 [기획자] API 연결 기획서 → 4-4 [구현] **각자 앱의 Secrets에 키 넣기**, 길별 프롬프트 2개 → 4-5 [확인] 사용량 화면 확인 포함 → 4-6 결과
+- 프롬프트 번호 1~17로 다시 매김
+
 ## 2차 수정 (같은 날 오후, 로린 님 결정 반영)
 - **세션 3을 13:00–15:20 실제 진행 순서로**: 3-1 [기획자] 개선 요청 표 → 3-2 [구현] 고치기 → 3-3 [구현] AI 테스트 보고서 → 3-4 [기획자·확인] 검증표·유저플로우 → 3-5 [구현] 개선된 버전 → 3-6 [기획자·확인] 개선 질문 3가지 → 3-7 [기획자] AS-IS·TO-BE 도식. 강사 예시 아티팩트 링크 2개(테스트 보고서, 개선된 마음책방) 추가
 - **세션 4 신설 (15:30–16:30)**: 클로드 API 키로 구글 AI 스튜디오 앱에 붙이기. 4-1 아티팩트 내장 AI vs API 키 + 참고 박스(수업용 키 운영: 키 공유 비권장 안내, 워크스페이스 지출 한도, 수업 후 키 삭제, 학생이 지킬 것) → 4-2 [기획자] API 연결 기획서 → 4-3 [구현] Secrets에 키 넣고 옮기기 → 4-4 [기획자·확인] 화면 코드에 키 없는지 확인
@@ -26,9 +30,10 @@
 | 타임테이블 | ![](pc_timetable.png) |
 | 2-6 기획자 요구사항 | ![](pc_s2-6.png) |
 | 3-7 AS-IS·TO-BE 도식 | ![](pc_s3-7.png) |
-| 4-1 API 키 개념·수업용 키 운영 | ![](pc_s4-1.png) |
-| 4-2 API 연결 기획서 | ![](pc_s4-2.png) |
-| 4-3 Secrets에 키 넣고 옮기기 | ![](pc_s4-3.png) |
+| 4-2 API 키 만들기·사용량·한도 | ![](pc_s4-2.png) |
+| 4-3 API 연결 기획서 | ![](pc_s4-3.png) |
+| 4-4 내 앱에 키 넣고 옮기기 | ![](pc_s4-4.png) |
+| 4-2 사용량·지출·한도 표(휴대폰 390px) | ![](mobile_s4-2_usage.png) |
 | 5-2 추천 프롬프트 기획서 | ![](pc_s5-2.png) |
 | 6-2 근거 추천 기획서(선택) | ![](pc_s6-2.png) |
 | 5-1 참고 박스(휴대폰 390px) | ![](mobile_s5-1_ref.png) |
